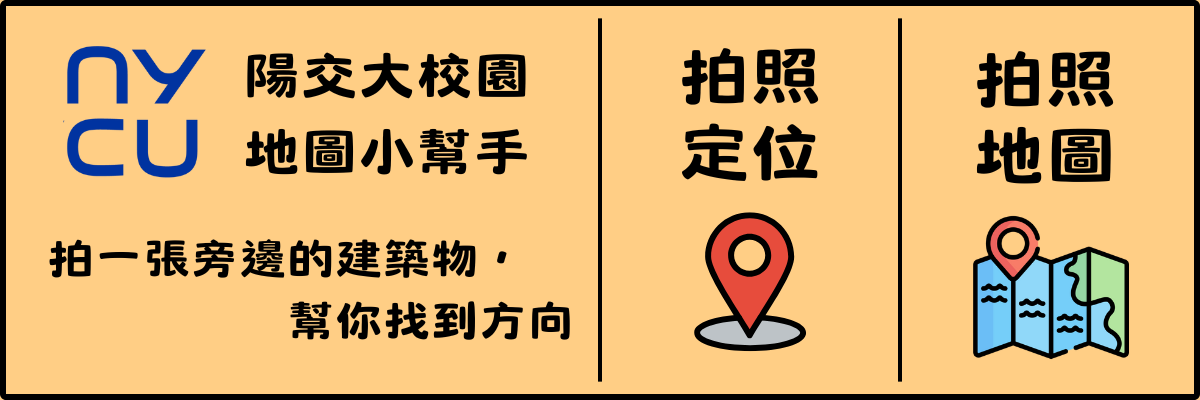
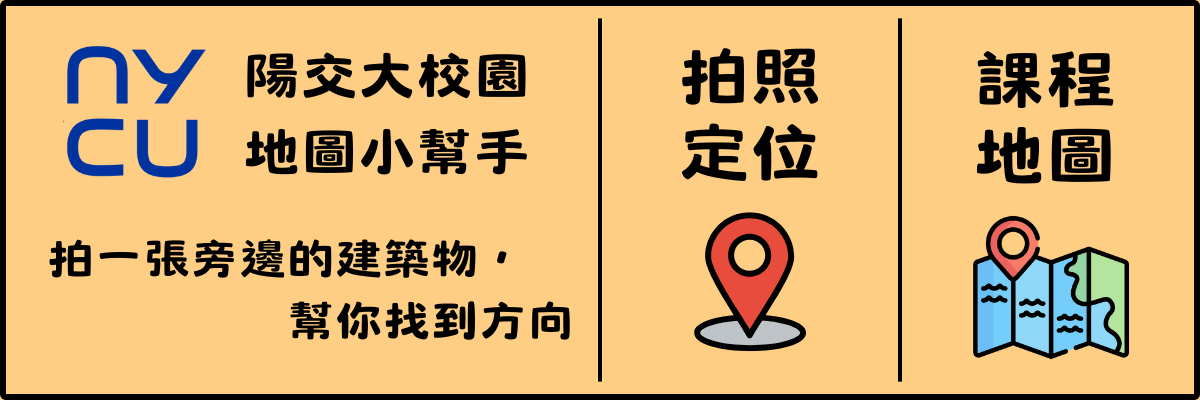
firestore_and_richmenu

Changed region(s): [[0.8017, 0.12, 0.925, 0.27]]

diff --git a/Line bot/main.py b/Line bot/main.py
@@ -25,12 +25,11 @@ import numpy as np
 from Building_classify import building_classify_fast_thread_int_return
 
 #firestore
-# import firebase_admin
-# from firebase_admin import credentials
-# from firebase_admin import firestore
-# cred = credentials.Certificate('serviceAccount.json')
-# firebase_admin.initialize_app(cred)
-# db = firestore.client()
+import firebase_admin
+from firebase_admin import credentials, firestore
+cred = credentials.Certificate('serviceAccount.json')
+firebase_admin.initialize_app(cred)
+db = firestore.client()
 
 handler = WebhookHandler(channel_secret)
 line_bot_api = LineBotApi(channel_access_token)
@@ -41,7 +40,6 @@ errorMessage = TextSendMessage(text='哦，這超出我的能力範圍......')
 
 def link_and_building(num):
     link = 'https://drive.google.com/uc?export=view&id='
-    name = None
     link2 = (
         '1cp6tBT7Qu2hXCEU6qCSm2vW3MTRDo_Sg',
         '1Qz5K3MAPtQB4rHR9QYoqFpMJMPEFgFru',
@@ -151,6 +149,7 @@ def handle_postback(event):
     command = event.postback.data
     
     if (command == 'template_classes'): #傳送課程的範例
-        replyMessages = TextSendMessage('課程增加方式：輸入"課程名稱/建築物"\n範例：微積分/科學一館\n\n課程地圖的使用請在課程名稱前輸入"課程："\n範例：課程：微積分')   
-
-    line_bot_api.reply_message(event.reply_token, replyMessages)
+        replyMessages = TextSendMessage('課程增加方式：\n輸入"課程名稱/建築物"\n\n範例：微積分/科學一館\n---------\n\n課程地圖使用：\n在課程名稱前輸入"課程#"\n\n範例：課程#微積分')   
+    
+    if replyMessages is not None:
+        line_bot_api.reply_message(event.reply_token, replyMessages)
